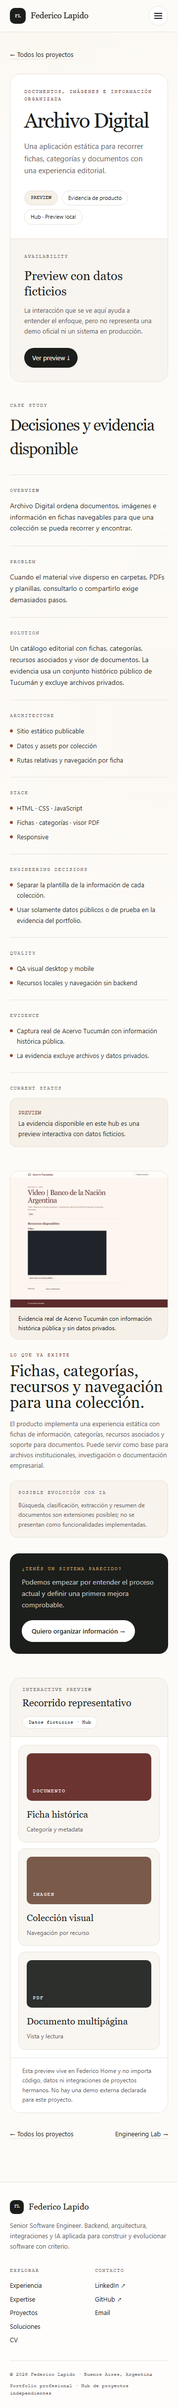
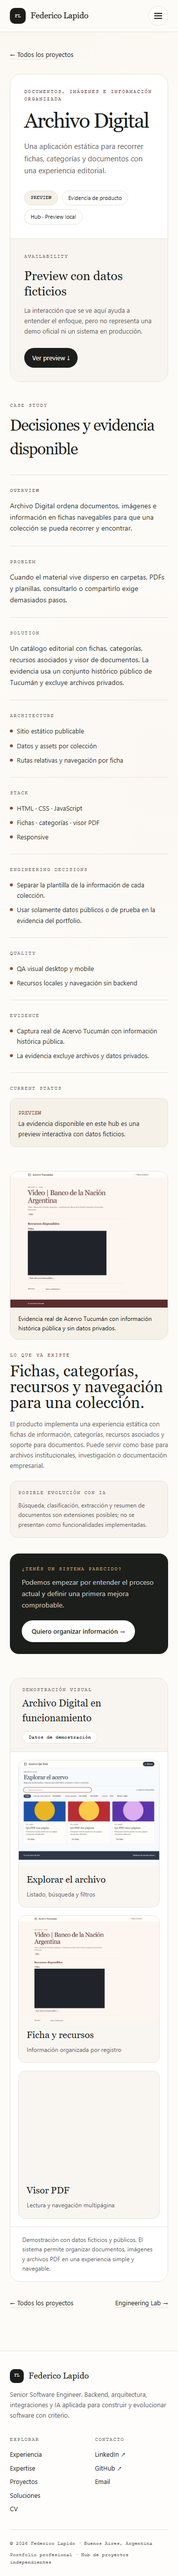
Use real Archivo Digital QA evidence

Changed region(s): [[0.0306, 0.0, 0.9472, 1.0]]

diff --git a/src/pages/ProjectDetail.tsx b/src/pages/ProjectDetail.tsx
@@ -37,6 +37,8 @@ export default function ProjectDetail() {
   if (!project) return <div className="mx-auto max-w-[720px] px-5 py-16 text-center"><div className="font-mono text-[11px] uppercase tracking-widest text-stone">404</div><h1 className="mt-2 font-display text-[32px]">Proyecto no encontrado</h1><Link to="/proyectos" className="mt-6 inline-block rounded-full bg-ink px-5 py-2.5 text-[13px] text-paper">Volver a proyectos</Link></div>
 
   const isLocalDemo = project.demoStatus === "LOCAL_DEMO"
+  const previewTitle = project.slug === "archivo-digital" ? "Archivo Digital en funcionamiento" : "Recorrido de demostración"
+  const previewFooter = project.slug === "archivo-digital" ? "Demostración con datos ficticios y públicos. El sistema permite organizar documentos, imágenes y archivos PDF en una experiencia simple y navegable." : "Demostración con datos ficticios para entender el flujo principal. La disponibilidad de cada demo se indica arriba de forma clara."
 
   return (
     <div className="mx-auto max-w-[1280px] px-5 py-8 sm:px-6 md:px-8 md:py-12">
@@ -47,7 +49,7 @@ export default function ProjectDetail() {
 
       <CommercialEvidence project={project} />
 
-      <section id="preview" className="scroll-mt-20 mt-12 overflow-hidden rounded-[22px] border hairline bg-white"><div className="flex flex-col justify-between gap-3 border-b hairline bg-paper-2/70 px-6 py-4 sm:flex-row sm:items-center md:px-8"><div><div className="font-mono text-[10px] uppercase tracking-[.14em] text-stone">Interactive preview</div><h2 className="mt-1 font-display text-[20px]">Recorrido representativo</h2></div><span className="w-fit rounded-full border hairline bg-white px-3 py-1 font-mono text-[10px]">Datos ficticios · Hub</span></div><div className="p-4 sm:p-6 md:p-8">{previewByType[project.preview]}</div><div className="border-t hairline bg-white px-6 py-4 text-[12px] leading-relaxed text-ink-light">Esta preview vive en Federico Home y no importa código, datos ni integraciones de proyectos hermanos. {isLocalDemo ? "La demo independiente continúa disponible solo de forma local." : "No hay una demo externa declarada para este proyecto."}</div></section>
+      <section id="preview" className="scroll-mt-20 mt-12 overflow-hidden rounded-[22px] border hairline bg-white"><div className="flex flex-col justify-between gap-3 border-b hairline bg-paper-2/70 px-6 py-4 sm:flex-row sm:items-center md:px-8"><div><div className="font-mono text-[10px] uppercase tracking-[.14em] text-stone">Demostración visual</div><h2 className="mt-1 font-display text-[20px]">{previewTitle}</h2></div><span className="w-fit rounded-full border hairline bg-white px-3 py-1 font-mono text-[10px]">Datos de demostración</span></div><div className="p-4 sm:p-6 md:p-8">{previewByType[project.preview]}</div><div className="border-t hairline bg-white px-6 py-4 text-[12px] leading-relaxed text-ink-light">{previewFooter}</div></section>
 
       <nav className="mt-8 flex justify-between text-[13px]"><Link to="/proyectos" className="underline decoration-line underline-offset-4">← Todos los proyectos</Link><Link to="/lab" className="underline decoration-line underline-offset-4">Engineering Lab →</Link></nav>
     </div>

diff --git a/src/previews/ArchivePreview.tsx b/src/previews/ArchivePreview.tsx
@@ -1,9 +1,9 @@
-const records = [
-  ["Documento", "Ficha histórica", "Categoría y metadata"],
-  ["Imagen", "Colección visual", "Navegación por recurso"],
-  ["PDF", "Documento multipágina", "Vista y lectura"],
+const evidence = [
+  ["/solutions/archivo-digital/catalogo-demo.png", "Vista real del catálogo de Archivo Digital con búsqueda, filtros y fichas", "Explorar el archivo", "Listado, búsqueda y filtros"],
+  ["/solutions/archivo-digital/tucuman-public.png", "Ficha real de material histórico público dentro de Acervo Tucumán", "Ficha y recursos", "Información organizada por registro"],
+  ["/solutions/archivo-digital/visor-pdf-demo.png", "Visor real de documento PDF con páginas y controles de navegación", "Visor PDF", "Lectura y navegación multipágina"],
 ]
 
 export default function ArchivePreview() {
-  return <div className="grid gap-3 sm:grid-cols-3">{records.map(([type, title, detail], index) => <article key={type} className="rounded-[14px] border hairline bg-paper-2/60 p-4"><div className="flex h-24 items-end rounded-[10px] bg-[#6B3430] p-3 text-paper" style={{ background: index === 1 ? "#7A5A4A" : index === 2 ? "#2D2F2D" : undefined }}><span className="font-mono text-[10px] uppercase tracking-[.14em]">{type}</span></div><h3 className="mt-4 font-display text-[19px] leading-tight">{title}</h3><p className="mt-2 text-[12px] leading-relaxed text-ink-light">{detail}</p></article>)}</div>
+  return <div className="grid gap-4 md:grid-cols-3">{evidence.map(([src, alt, title, detail]) => <figure key={src} className="overflow-hidden rounded-[14px] border hairline bg-paper-2/60"><img src={src} alt={alt} loading="lazy" className="aspect-[4/3] w-full object-cover object-top" /><figcaption className="p-4"><h3 className="font-display text-[19px] leading-tight">{title}</h3><p className="mt-2 text-[12px] leading-relaxed text-ink-light">{detail}</p></figcaption></figure>)}</div>
 }

diff --git a/docs/qa/CASE-STUDIES-V2.1-QA.md b/docs/qa/CASE-STUDIES-V2.1-QA.md
@@ -16,3 +16,7 @@ Capturas de evidencia de la matriz: `screenshots/v2/*-proyectos-legacy-web.png`,
 ## Producción
 
 Cloudflare Pages respondió 200 en las tres rutas. Chromium verificó cada una a 390×844 y 1440×900: imágenes completas, cero overflow, cero errores propios de consola y cero requests propios fallidos. La comprobación de texto en producción no encontró los identificadores excluidos ni nombres de material restringido.
+
+## Ajuste visual — Archivo Digital
+
+La demostración ahora usa tres capturas QA reales y seguras del producto: listado con búsqueda/filtros, ficha pública y visor PDF multipágina con fixtures. Reemplaza por completo los bloques conceptuales; mantiene el badge `Datos de demostración` y copy orientado a visitante.

diff --git a/docs/qa/SCENARIOS.md b/docs/qa/SCENARIOS.md
@@ -214,6 +214,7 @@ SOL-06 · Matriz 320/360/375/390/412/430/1024/1366/1440/1920 sin overflow, clipp
 CASE-01 · Legacy → Web muestra antes/después real, migración progresiva y CTA comercial · PASS · 2026-08-26
 CASE-02 · Subastas muestra flujo comercial, adaptaciones y estado DEMO LOCAL sin URL inventada · PASS · 2026-08-26
 CASE-03 · Archivo Digital carga directo con evidencia pública de Tucumán, sin datos privados ni capacidades IA falsas · PASS · 2026-08-26
+CASE-04 · Archivo Digital muestra catálogo, ficha y visor PDF reales; sin placeholders conceptuales ni copy interno · PASS · 2026-08-26
 
 # ABOUT-AVATAR-2026-08-25
 
